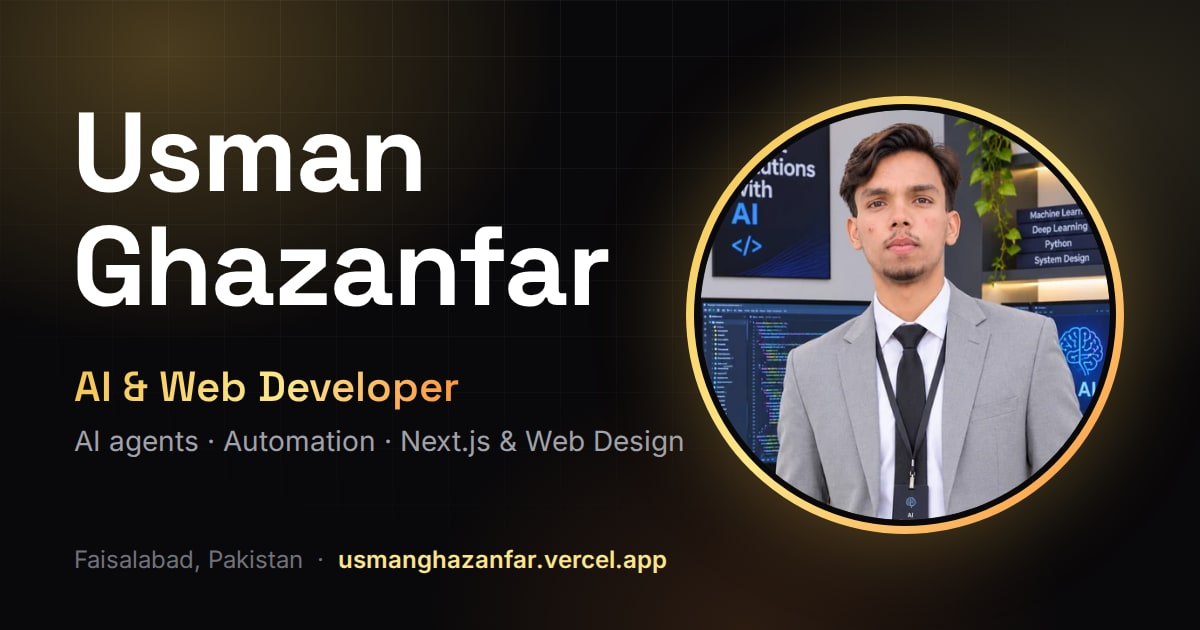
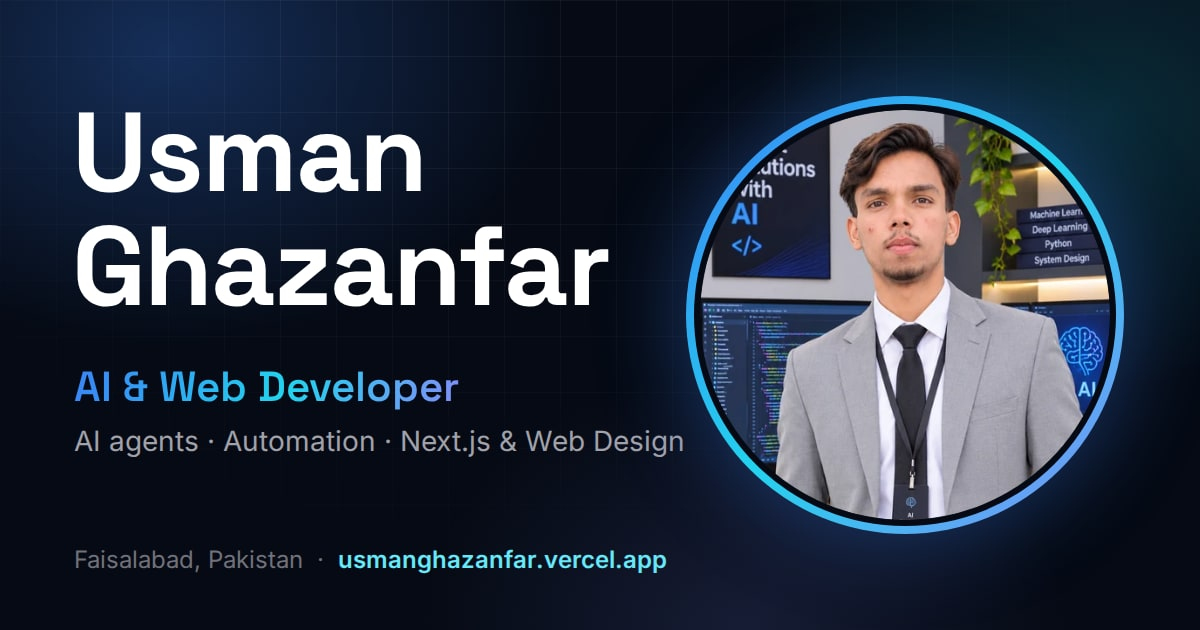
Ocean Blue theme

Changed region(s): [[0.2775, 0.0302, 1.0, 1.0], [0.0, 0.0, 0.4008, 0.4222], [0.0617, 0.573, 0.4008, 0.6635]]

diff --git a/index.html b/index.html
@@ -20,7 +20,7 @@
     <link rel="icon" type="image/png" sizes="192x192" href="/icon-192.png" />
     <link rel="apple-touch-icon" sizes="180x180" href="/apple-touch-icon.png" />
     <link rel="manifest" href="/site.webmanifest" />
-    <meta name="theme-color" content="#09080a" />
+    <meta name="theme-color" content="#050a14" />
     <meta name="color-scheme" content="dark" />
 
     <!-- Open Graph -->
@@ -51,11 +51,11 @@
     <meta name="twitter:image:alt" content="Usman Ghazanfar, AI & Web Developer" />
 
     <!-- Paint the dark background immediately (avoids a white flash before CSS loads) -->
-    <style>html,body{background:#09080a;color:#d4d4d8}
+    <style>html,body{background:#050a14;color:#d4d4d8}
 /* Crawler/no-JS fallback: kept in the HTML for search engines and screen readers, but never flashed at visitors while the app loads. React replaces everything inside #root on mount. */
 .seo-static{position:absolute;width:1px;height:1px;margin:-1px;padding:0;overflow:hidden;clip:rect(0,0,0,0);clip-path:inset(50%);white-space:nowrap;border:0}
-.boot{position:fixed;inset:0;display:grid;place-items:center;background:#09080a}
-.boot span{width:30px;height:30px;border-radius:50%;border:2px solid rgba(255,255,255,.15);border-top-color:#f5c451;animation:boot .8s linear infinite}
+.boot{position:fixed;inset:0;display:grid;place-items:center;background:#050a14}
+.boot span{width:30px;height:30px;border-radius:50%;border:2px solid rgba(255,255,255,.15);border-top-color:#22d3ee;animation:boot .8s linear infinite}
 @keyframes boot{to{transform:rotate(360deg)}}
 @media (prefers-reduced-motion:reduce){.boot span{animation:none}}</style>
 

diff --git a/site/layout.js b/site/layout.js
@@ -23,7 +23,7 @@ export function head({ title, description, path, type = 'website', jsonLd, asset
 <link rel="icon" type="image/png" sizes="192x192" href="/icon-192.png" />
 <link rel="apple-touch-icon" sizes="180x180" href="/apple-touch-icon.png" />
 <link rel="manifest" href="/site.webmanifest" />
-<meta name="theme-color" content="#09080a" />
+<meta name="theme-color" content="#050a14" />
 <meta name="color-scheme" content="dark" />
 <meta property="og:type" content="${type}" />
 <meta property="og:site_name" content="${esc(PROFILE.name)}" />
@@ -47,7 +47,7 @@ export function head({ title, description, path, type = 'website', jsonLd, asset
 <meta name="twitter:description" content="${esc(description)}" />
 <meta name="twitter:image" content="${img}" />
 <meta name="twitter:image:alt" content="${esc(SITE.ogImageAlt)}" />
-<style>html,body{background:#09080a;color:#d4d4d8}</style>
+<style>html,body{background:#050a14;color:#d4d4d8}</style>
 ${assets?.headHtml || ''}
 ${jsonLd ? jsonLdScript(jsonLd) : ''}
 </head>`

diff --git a/src/index.css b/src/index.css
@@ -7,12 +7,12 @@
 @theme {
   --font-sans: 'Inter Variable', system-ui, sans-serif;
   --font-display: 'Space Grotesk Variable', 'Inter Variable', sans-serif;
-  --color-ink: #09080a;
-  --color-panel: #141115;
+  --color-ink: #050a14;
+  --color-panel: #0b1426;
   --color-line: rgb(255 255 255 / 0.08);
-  --color-accent: #f5c451;
-  --color-accent-2: #fde68a;
-  --color-accent-3: #fb923c;
+  --color-accent: #3b82f6;
+  --color-accent-2: #22d3ee;
+  --color-accent-3: #818cf8;
   /* Accessibility: Tailwind's default zinc-500 is only ~4:1 on this dark background; this keeps the same look at >=5:1 */
   --color-zinc-500: #8e8e97;
 }
